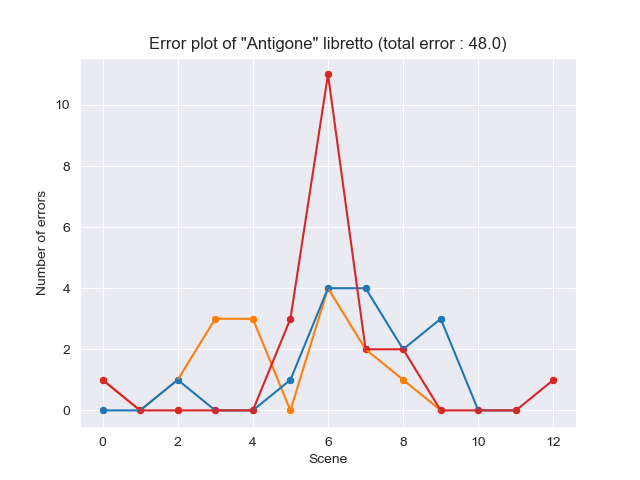
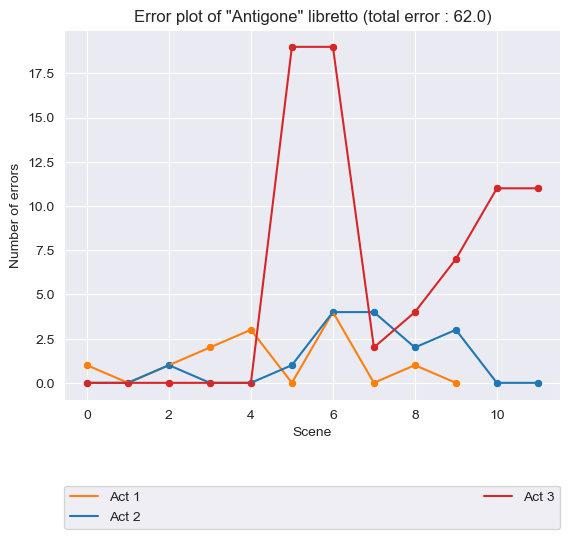
legend in plot

diff --git a/code/evaluation.py b/code/evaluation.py
@@ -129,7 +129,7 @@ def plot_distances(libretto, data_gt, data_predict, total_error):
                labels = ["Act " + str(i) for i in range(1, df.shape[1])])
     
     # Save image
-    plt.savefig("../data/"+ libretto + "/4_Evaluation/error_plot.png")
+    plt.savefig("../data/"+ libretto + "/4_Evaluation/error_plot.png", bbox_inches='tight')
 
 
 def main(argv):
